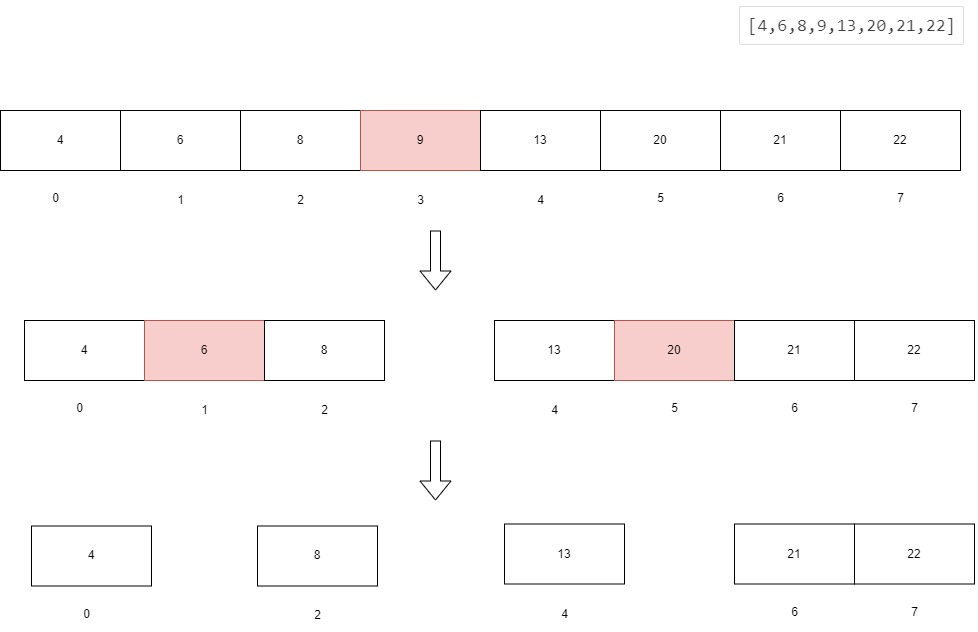
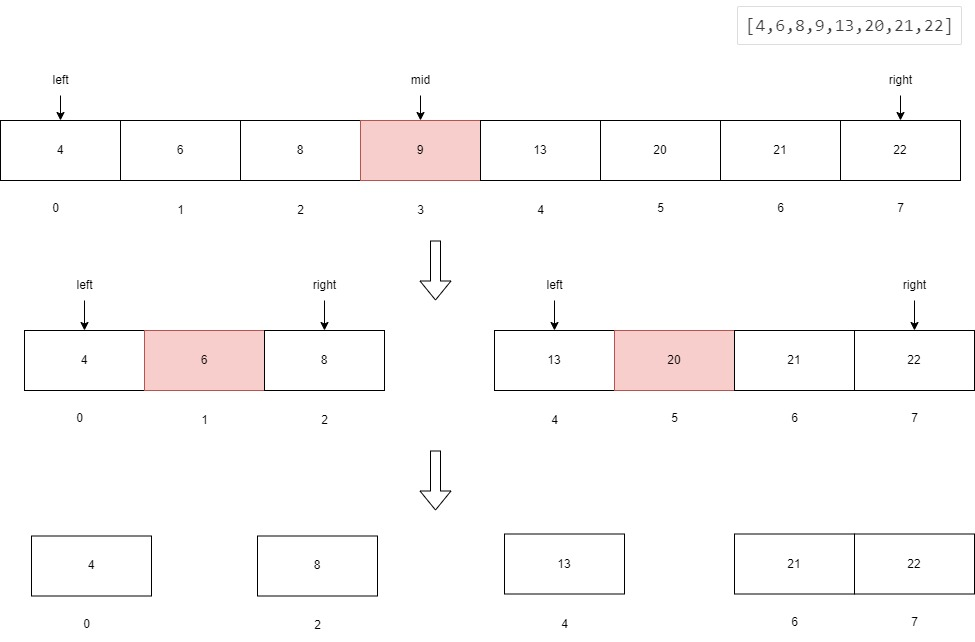
Commit binarySearch.md

diff --git a/data structure and algorithm/algorithm/search/binarySearch.md b/data structure and algorithm/algorithm/search/binarySearch.md
@@ -1,0 +1,38 @@
+排序过程如图所示：
+
+<img src="..\..\pic\binarySearch.jpg" style="zoom: 67%;" />
+
+循环实现的算法如下所示：
+
+```c++
+#include <bits/stdc++.h>
+using namespace std;
+
+/*
+
+	Binary Search: Time complexity is O(log n). It is suitable for large and sorted data sets.
+
+*/
+
+int binarySearch(vector<int> arr, int key) {
+    int left = 0, right = arr.size() - 1;
+    while(left <= right) {
+        int mid = (left + right) / 2;
+        if(arr[mid] == key) {
+            return mid;
+        } else if(key < arr[mid]) {
+            right = mid - 1;
+        } else {
+            left = mid + 1;
+        }
+    }
+    return -1;
+}
+
+```
+
+Comments
+
+二分查找比较简单，每次分成[left, mid-1和[mid+1, right]两个区间，递归终止条件是left>right，而分成[left, mid]与[mid+1,right]两个区间时，递归终止条件是left==right。
+
+二分查找可以查找具有重复元素的排序后的数组，具体要根据自己的需求进行调整，比如当查找最先出现的元素时，查找到之后可以继续向左递归直至查找到最左边的元素。
